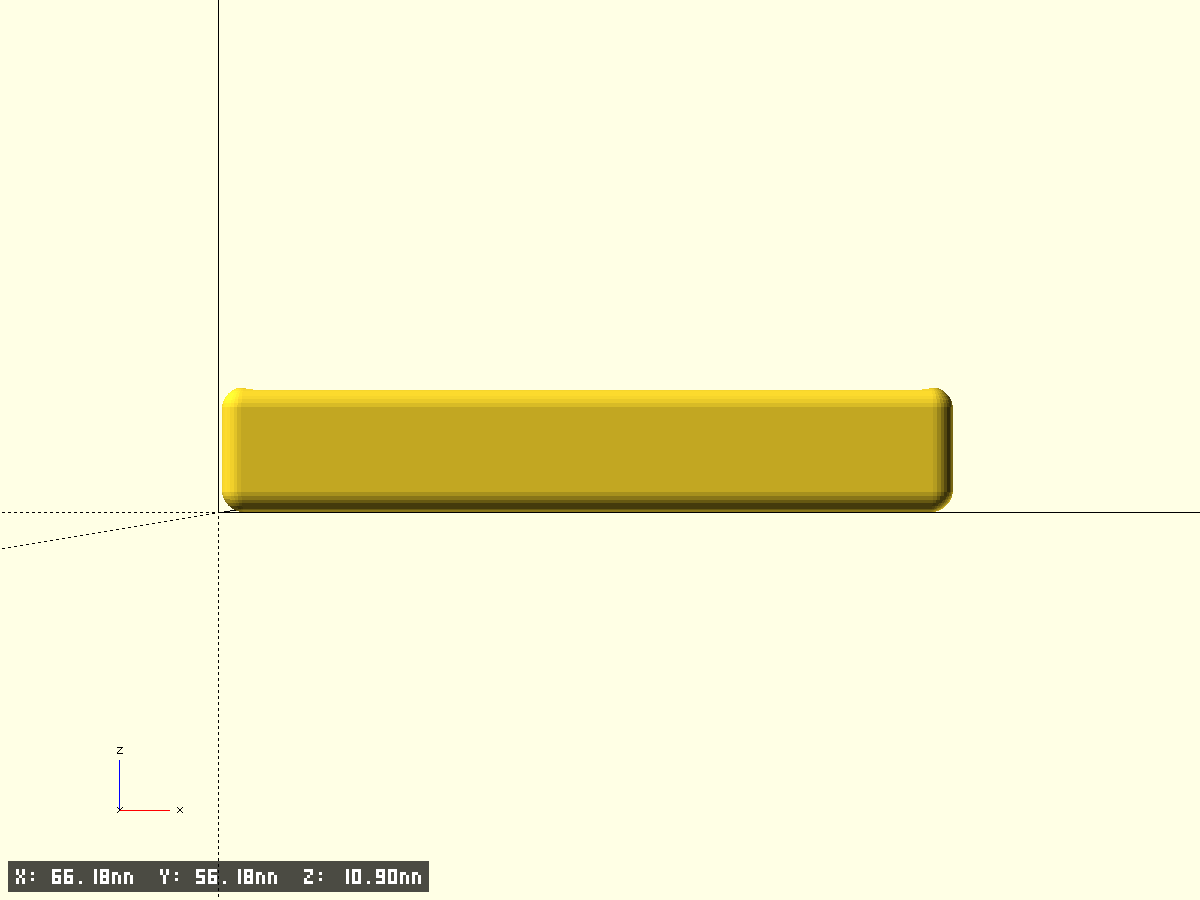
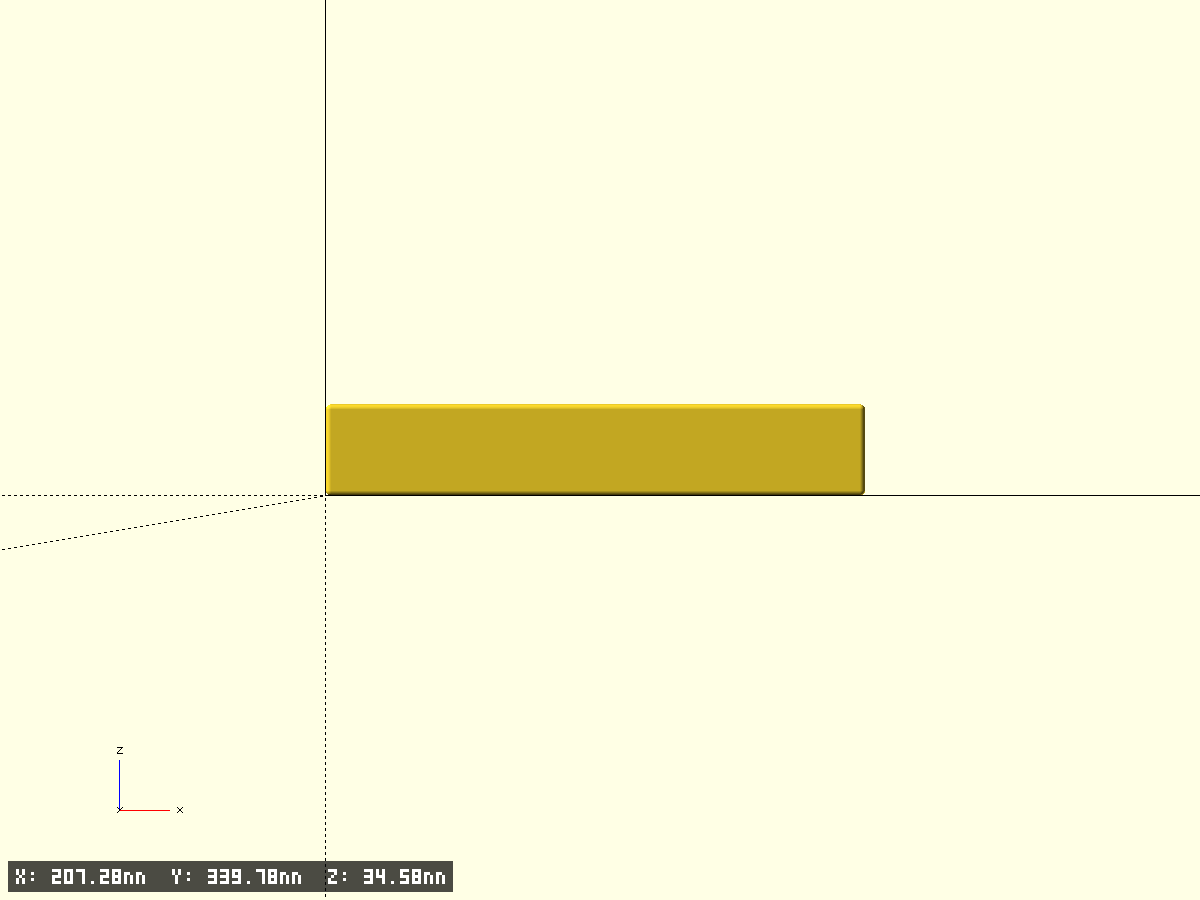
add printer filament holder

Changed region(s): [[0.185, 0.4356, 0.8017, 0.5911], [0.0617, 0.9333, 0.4008, 0.9956]]

diff --git a/models/README.md b/models/README.md
@@ -13,5 +13,6 @@
 | Circular Plate Cap Ø123.6 (shell 1 mm, height 5 mm)<br>2025-08-26<br>[2025-08-26-cup-cap-76](2025-08-26-cup-cap-76/)<br>[cup-cap-76.scad](2025-08-26-cup-cap-76/cup-cap-76.scad) | Circular Plate Cap Ø76.1 (shell 1 mm, height 10 mm) | ![iso](2025-08-26-cup-cap-76/preview.iso.png) ![xy](2025-08-26-cup-cap-76/preview.xy.png) | ![xz](2025-08-26-cup-cap-76/preview.xz.png) ![yz](2025-08-26-cup-cap-76/preview.yz.png) |
 | Mic Transceiver Box — inner 100x35x17, base + cap<br>2025-08-26<br>[2025-08-26-mic-transiever-box](2025-08-26-mic-transiever-box/)<br>[mic-box.scad](2025-08-26-mic-transiever-box/mic-box.scad) | Mic Transceiver Box — inner 100x35x17, base + cap | ![iso](2025-08-26-mic-transiever-box/preview.iso.png) ![xy](2025-08-26-mic-transiever-box/preview.xy.png) | ![xz](2025-08-26-mic-transiever-box/preview.xz.png) ![yz](2025-08-26-mic-transiever-box/preview.yz.png) |
 | phone iphone14 mini table holder — base<br>2025-08-26<br>[2025-08-26-phone-iphone14-mini-table-holder](2025-08-26-phone-iphone14-mini-table-holder/)<br>[phone-holder.scad](2025-08-26-phone-iphone14-mini-table-holder/phone-holder.scad) | phone iphone14 mini table holder — base | ![iso](2025-08-26-phone-iphone14-mini-table-holder/preview.iso.png) ![xy](2025-08-26-phone-iphone14-mini-table-holder/preview.xy.png) | ![xz](2025-08-26-phone-iphone14-mini-table-holder/preview.xz.png) ![yz](2025-08-26-phone-iphone14-mini-table-holder/preview.yz.png) |
+| filament holder<br>2025-08-29<br>[2025-08-29-filament-holder](2025-08-29-filament-holder/)<br>[printer-filement-holder.scad](2025-08-29-filament-holder/printer-filement-holder.scad) | Держатель катушки, крепится сбоку на принтер, на magsafe магнит | ![iso](2025-08-29-filament-holder/preview.iso.png) ![xy](2025-08-29-filament-holder/preview.xy.png) | ![xz](2025-08-29-filament-holder/preview.xz.png) ![yz](2025-08-29-filament-holder/preview.yz.png) |
 | Rect shells, trays, rings and chamfers<br><br>[modules.scad](modules.scad/)<br> | Reusable base functions and modules for OpenSCAD models | — — | — — |
 | ${longName}<br><br>[template-default](template-default/)<br>[default.scad](template-default/default.scad) | ${shortDescription} | ![iso](template-default/preview.iso.png) ![xy](template-default/preview.xy.png) | ![xz](template-default/preview.xz.png) ![yz](template-default/preview.yz.png) |

diff --git a/models/2025-08-29-filament-holder/README.md b/models/2025-08-29-filament-holder/README.md
@@ -1,0 +1,31 @@
+# filament holder
+
+- Держатель катушки, крепится сбоку на принтер, на magsafe магнит
+- Файл модели: `printer-filement-holder.scad`
+
+## Ключевые параметры (см. начало SCAD)
+- $fn, $fa, $fs, pin_fs — точность окружностей
+- test_fragment, frag_* — тест‑фрагменты
+- base_pad_d, base_pad_h — основание, Ø60×2 по ТЗ
+- body_outer_d, body_h — труба, Ø45×77 по ТЗ
+- wall_th — толщина стенки трубы (по умолчанию 2.0 мм, уточнить)
+- hook_d, hook_h — верхний диск, Ø50×5 по ТЗ
+- edge_ch — фаска верхнего края трубы (0 — без фаски)
+
+## Фрагменты
+- base — круглое основание (сплошной диск)
+- body — основной корпус (полая трубка с настраиваемой фаской сверху)
+- top_hook — верхний диск (сплошной)
+
+Вывод деталей управляется флагами `print_base`, `print_body`, `print_top_hook`.
+
+## Превью
+
+![printer-filement-holder iso](preview.iso.png)
+
+![printer-filement-holder xy](preview.xy.png)
+
+![printer-filement-holder xz](preview.xz.png)
+
+![printer-filement-holder yz](preview.yz.png)
+
